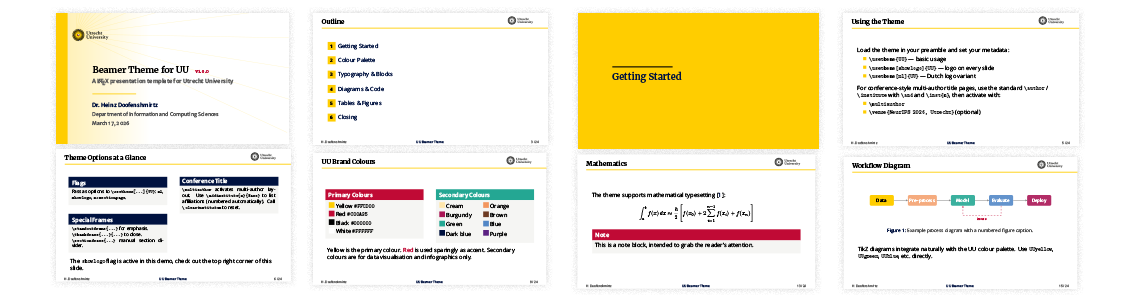
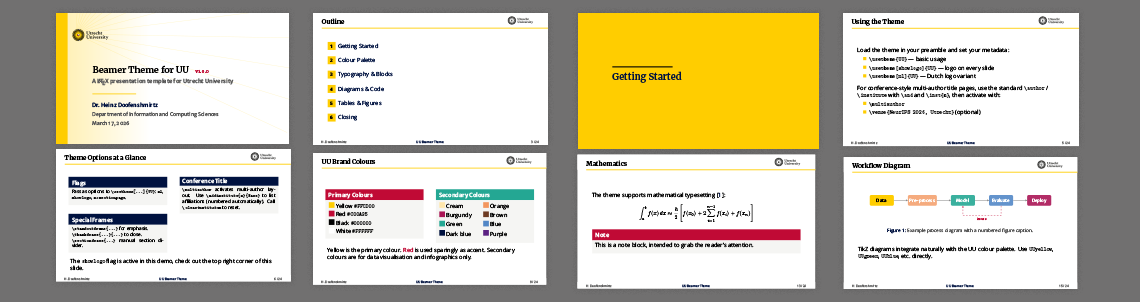
acknowledge uucls

Changed region(s): [[0.0, 0.0, 1.0, 1.0]]

diff --git a/_posts/2026-03-17-beamer-uu.md b/_posts/2026-03-17-beamer-uu.md
@@ -11,8 +11,9 @@ thumbnail: assets/img/beamer-thumb.png
 ---
 {% include figure.liquid loading="eager" path="assets/img/beamer-header.png" class="img-fluid rounded z-depth-1" %}
 [![Static Badge](https://img.shields.io/badge/github-beamer--uu-blue?logo=github)](https://github.com/joszuijderwijk/beamer-uu)
-If you've ever prepared a presentation at Utrecht University, you'll know the struggle: PowerPoint templates [exist](https://www.uu.nl/en/organisation/corporate-identity/powerpoint-keynote) and get the job done, but if you prefer LaTeX, you were largely on your own. Other Dutch universities, e.g., (Delft)[https://www.overleaf.com/latex/templates/tu-delft-presentation/jcxrmnxssdst], (Leiden)[https://www.overleaf.com/latex/templates/leiden-university-beamer-theme/rsqdqhdcnsgy], already had polished beamer themes.
 
-Utrecht didn't, so I built one! `beamer-uu' is a Beamer theme that follows the [UU brand guidelines](https://www.uu.nl/en/organisation/corporate-identity/brand-policy). It covers the common presentation needs: section dividers, standout slides, a thank-you frame, multi-author conference title pages, and pre-configured code listings.
+If you've ever prepared a presentation at Utrecht University, you'll know the struggle: PowerPoint templates [exist](https://www.uu.nl/en/organisation/corporate-identity/powerpoint-keynote) and get the job done, but if you prefer LaTeX, options were limited. Other Dutch universities, e.g., [Delft](https://www.overleaf.com/latex/templates/tu-delft-presentation/jcxrmnxssdst) and [Leiden](https://www.overleaf.com/latex/templates/leiden-university-beamer-theme/rsqdqhdcnsgy), already had polished beamer themes on Overleaf.
+
+Utrecht does have [`uucls`](https://github.com/UtrechtUniversity/uucls), an official Beamer package that implements the UU Keynote template. I took a different approach with `beamer-uu`, a Beamer theme that follows the [UU brand guidelines](https://www.uu.nl/en/organisation/corporate-identity/brand-policy) and focuses on section dividers, standout slides, a thank-you frame, multi-author conference title pages, and pre-configured code listings.
 
 The theme has been submitted to the Overleaf template gallery, so you'll soon be able to use it directly from Overleaf without any local installation. The source is on GitHub at https://github.com/joszuijderwijk/beamer-uu. If you run into a bug, have a feature request, or want to contribute: pull requests and issues are welcome.
